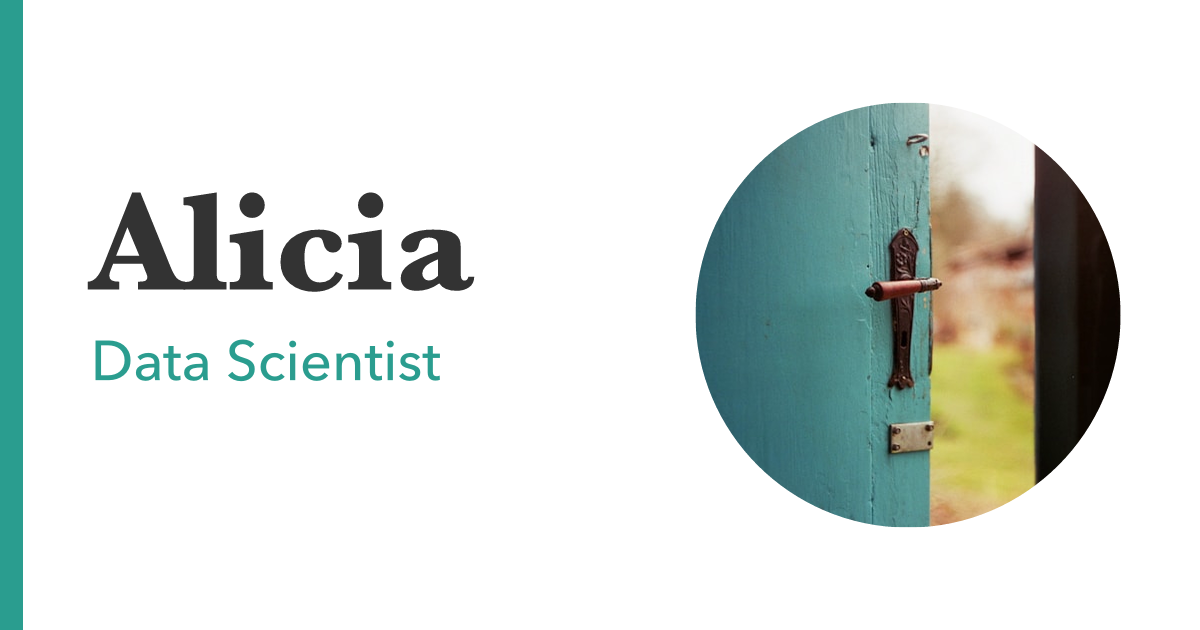
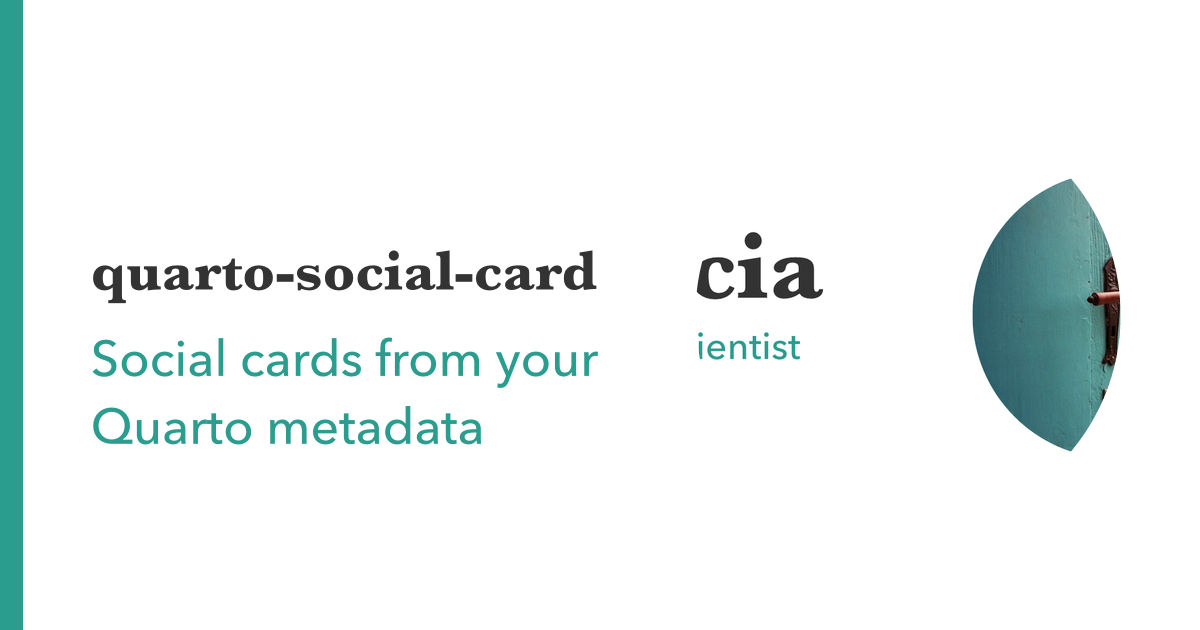
Reorg: top-level becomes the extension's own doc site
- move the personal-site demo into _examples/ (with a _extensions
  symlink so the nested example still finds the extension)
- top-level index.qmd is the docs landing page (README minus Development)
- top-level _thumbnail.qmd is the extension's own social card, using an
  example card as its avatar (self-referential), wired as the site og:image
- _quarto.yml renders only *.qmd (keeps PLAN.md/README.md out of the site)
- template.typ: unescape markdown-escaped underscores in image paths

diff --git a/README.md b/README.md
@@ -4,7 +4,7 @@ A Quarto Typst format that renders an Open Graph social card (1200×630 PNG) fro
 a document's metadata — title, subtitle, image — styled with your project's
 `_brand.yml` colors and fonts.
 
-![A social card reading "Alicia, Data Scientist" beside a circular photo, in the project's brand colors](thumbnail.png)
+![The extension's own social card: "quarto-social-card / Social cards from your Quarto metadata", with an example card alongside](thumbnail.png)
 
 ## Usage
 
@@ -38,7 +38,7 @@ quarto typst compile _thumbnail.typ thumbnail.png --font-path .quarto/typst/font
 it's harmless if your brand uses only system fonts.)
 
 Wire the card into `_quarto.yml` as your site's social image. Add `image-alt` so
-the shared preview is accessible:
+the card is accessible:
 
 ```yaml
 website:
@@ -103,7 +103,7 @@ quarto typst compile page.typ page-card.png --font-path .quarto/typst/fonts --pp
 The card uses that page's `title` / `subtitle` / `image`, and the page **body is
 ignored** — only the metadata reaches the card.
 
-Then point the page's social image at the generated card. Quarto otherwise uses
+Then point the page's social image at the generated card. By default, Quarto uses
 the page's `image:` (the card's avatar) as the `og:image`, so set it explicitly
 under `open-graph` (and `twitter-card`):
 
@@ -117,7 +117,7 @@ twitter-card:
   image-alt: "Alicia, Data Scientist"  # the card's text, for screen readers
 ```
 
-Be aware that the card `page.pdf` is published into `_site/`. 
+Be aware that the PDF card, e.g. `page.pdf`, is published into `_site/`. 
 Consider deleting it, or using a `post-render` script to remove it.
 
 ## Development
